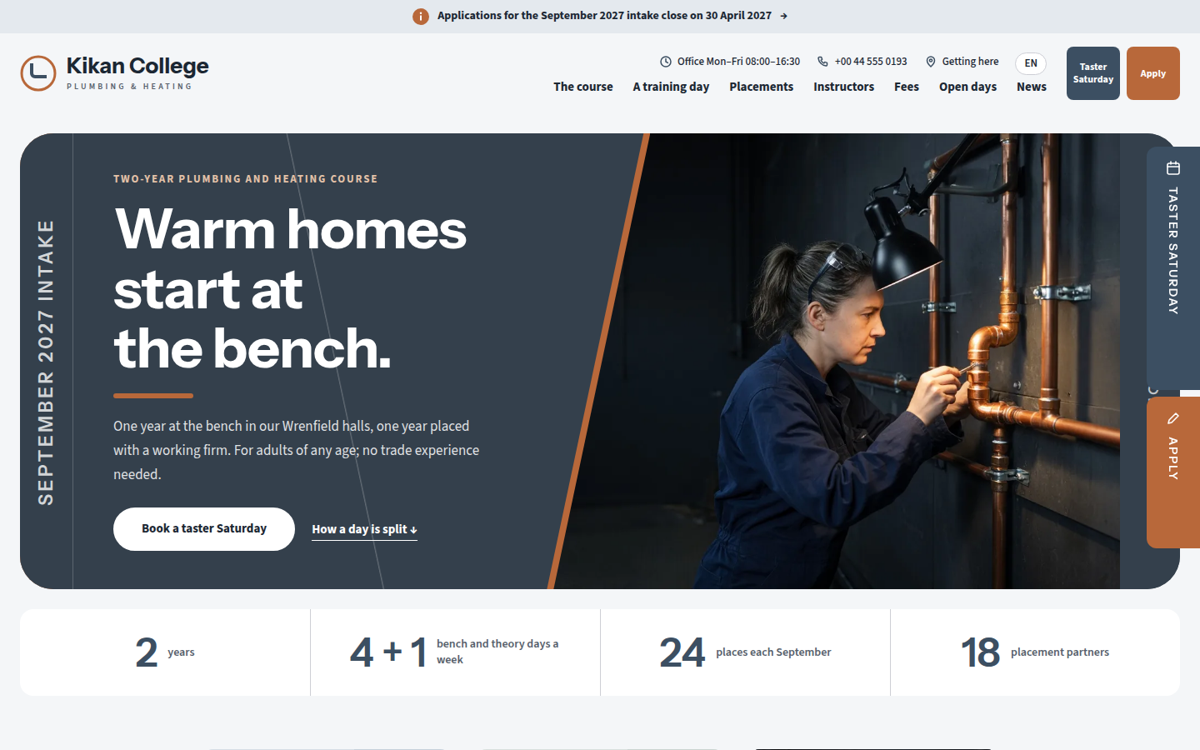
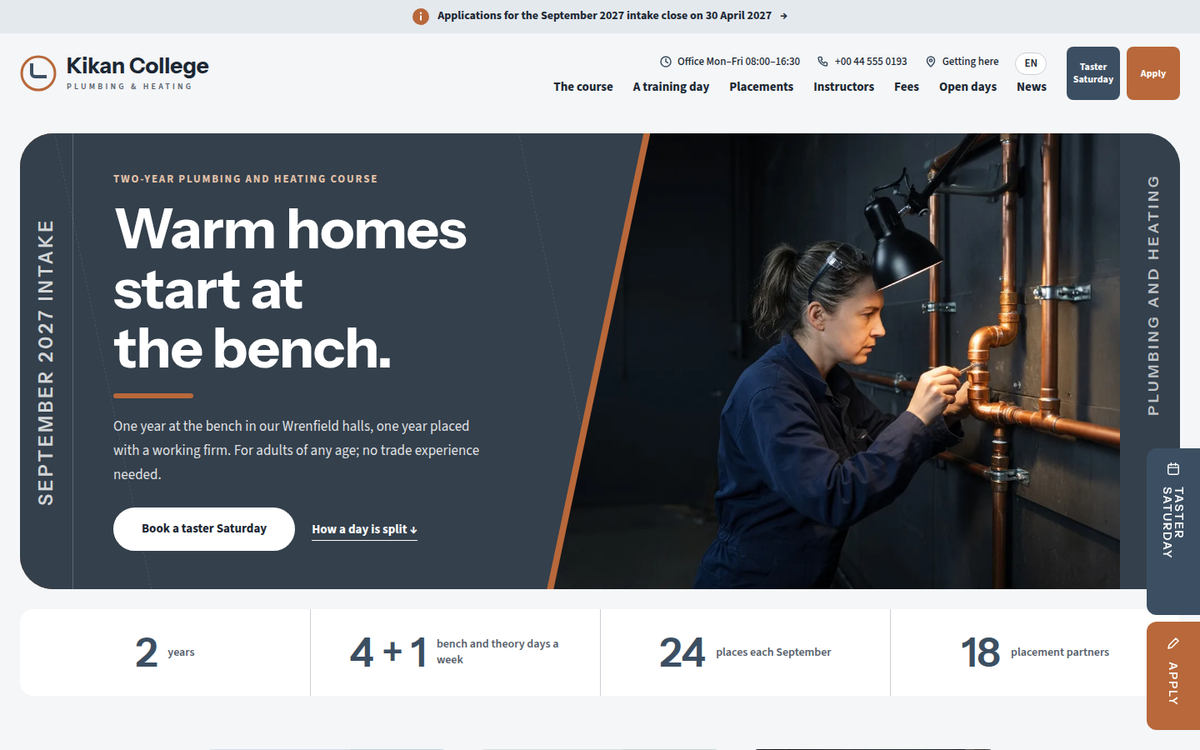
kikan-college: stage 2 home fixes (readable hero strip, day strip labels, regenerated Rosa/Aiyana photos, plates, screenshot)

Changed region(s): [[0.9558, 0.184, 1.0, 0.9813]]

diff --git a/themes/kikan-college/style.css b/themes/kikan-college/style.css
@@ -116,11 +116,12 @@ img { max-width: 100%; height: auto; }
 .kc-tabs { display: none; }
 @media (min-width: 1280px) {
 	.kc-hero__strip { justify-content: flex-start; padding-left: 8px; }
-	.kc-tabs { display: flex; flex-direction: column; gap: 8px; position: fixed; right: 0; top: 176px; z-index: 40; }
-	.kc-tab { display: flex; flex-direction: column; align-items: center; justify-content: flex-start; gap: 12px; width: 64px; padding: 16px 0; border-radius: 12px 0 0 12px; color: #fff; text-decoration: none; font: 600 14px/1 var(--kc-display); }
+	.kc-window .kc-hero__strip { align-items: flex-start; padding-top: 48px; }
+	.kc-tabs { display: flex; flex-direction: column; gap: 8px; position: fixed; right: 0; top: auto; bottom: 24px; z-index: 40; }
+	.kc-tab { display: flex; flex-direction: column; align-items: center; justify-content: flex-start; gap: 12px; width: 64px; padding: 16px 0; box-sizing: border-box; border-radius: 12px 0 0 12px; color: #fff; text-decoration: none; font: 600 14px/1 var(--kc-display); }
 	.kc-tab span { writing-mode: vertical-rl; letter-spacing: .12em; }
-	.kc-tab--taster { background: var(--kc-katsu); height: 260px; }
-	.kc-tab--apply { background: var(--kc-copper); height: 150px; }
+	.kc-tab--taster { background: var(--kc-katsu); height: 200px; }
+	.kc-tab--apply { background: var(--kc-copper); height: 130px; }
 	.kc-tab:hover { filter: brightness(1.08); color: #fff; }
 }
 
@@ -128,7 +129,7 @@ img { max-width: 100%; height: auto; }
 .kc-hero { padding: 24px 24px 0; background: var(--kc-ground); }
 .kc-window { display: grid; grid-template-columns: 46% 1fr 72px; height: clamp(440px, calc(100vh - 353px), 600px); border-radius: 40px; overflow: clip; background: var(--kc-panel); position: relative; }
 .kc-hero__panel-wrap { position: relative; z-index: 2; margin-right: -116px; background: var(--kc-copper); clip-path: polygon(0 0, 100% 0, calc(100% - 116px) 100%, 0 100%); }
-.kc-hero__panel { height: 100%; display: grid; grid-template-columns: 64px 1fr; background-color: var(--kc-panel); clip-path: polygon(0 0, calc(100% - 8px) 0, calc(100% - 124px) 100%, 0 100%); background-image: linear-gradient(78deg, transparent 49.9%, rgba(255, 255, 255, .12) 50%, transparent 50.2%), linear-gradient(78deg, transparent 49.9%, rgba(255, 255, 255, .12) 50%, transparent 50.2%); background-size: 100% 100%; background-position: 30% 0, 62% 0; background-repeat: no-repeat; }
+.kc-hero__panel { height: 100%; display: grid; grid-template-columns: 64px 1fr; background-color: var(--kc-panel); clip-path: polygon(0 0, calc(100% - 8px) 0, calc(100% - 124px) 100%, 0 100%); background-image: linear-gradient(78deg, transparent 49.9%, rgba(255, 255, 255, .12) 50%, transparent 50.2%), linear-gradient(78deg, transparent 49.9%, rgba(255, 255, 255, .12) 50%, transparent 50.2%); background-size: 20% 100%, 20% 100%; background-position: 4% 0, 96% 0; background-repeat: no-repeat; }
 .kc-rail { display: flex; align-items: center; justify-content: center; border-right: 1px solid rgba(255, 255, 255, .2); }
 .kc-rail__l { margin: 0; writing-mode: vertical-rl; transform: rotate(180deg); font: 600 22px/1 var(--kc-display); letter-spacing: .16em; color: rgba(255, 255, 255, .8); white-space: nowrap; }
 .kc-hero__text { align-self: center; padding: 0 140px 0 48px; }
@@ -194,7 +195,10 @@ img { max-width: 100%; height: auto; }
 .kc-tile__img { position: absolute; inset: 0; margin: 0; }
 .kc-tile__img img { width: 100%; height: 100%; object-fit: cover; display: block; }
 .kc-plate { position: relative; z-index: 1; width: 100%; background: #fff; border-radius: 8px; padding: 14px 16px; text-align: center; transition: transform .3s ease; }
-.kc-tile--photo .kc-plate { width: 62%; text-align: left; }
+.kc-tile--photo { padding: 12px; }
+.kc-tile--photo .kc-plate { width: 54%; text-align: left; padding: 10px 12px; }
+.kc-tile--photo .kc-plate__t { font-size: 1.125rem; }
+.kc-tile--photo .kc-chip { margin-bottom: 6px; }
 .kc-tile:hover .kc-plate, .kc-stile:hover .kc-plate { transform: translateY(-3px); transition-delay: 0s; }
 .kc-chip { display: inline-block; margin: 0 0 8px; padding: 3px 10px; border-radius: 2px; background: var(--kc-katsu); color: #fff; font: 600 13px/1.4 var(--kc-body); }
 .kc-plate__t { margin: 0; font: 700 1.375rem/1.3 var(--kc-display); color: var(--kc-ink); }
@@ -238,6 +242,11 @@ img { max-width: 100%; height: auto; }
 .kc-seg__t { margin: 0; font: 600 13px/1.3 var(--kc-body); }
 .kc-seg--1 { flex: 15 1 0; } .kc-seg--2 { flex: 135 1 0; } .kc-seg--3 { flex: 20 1 0; } .kc-seg--4 { flex: 115 1 0; } .kc-seg--5 { flex: 45 1 0; } .kc-seg--6 { flex: 105 1 0; } .kc-seg--7 { flex: 30 1 0; }
 .kc-seg--1 .kc-seg__t, .kc-seg--3 .kc-seg__t { font-size: 11px; }
+.kc-legend { margin: 12px 0 0; font: 400 13px/1.5 var(--kc-body); color: var(--kc-muted); }
+.kc-seg--1 .kc-seg__t, .kc-seg--3 .kc-seg__t, .kc-seg--5 .kc-seg__t, .kc-seg--7 .kc-seg__t { display: none; }
+.kc-tick::after { content: ""; position: absolute; left: 50%; width: 1px; height: 6px; background: var(--kc-ink); }
+.kc-tick:nth-child(odd)::after { top: 18px; } .kc-tick:nth-child(even)::after { top: -8px; }
+.kc-tick--0::after { left: 0; } .kc-tick--7::after { left: 100%; }
 .kc-fri { margin-top: 14px; }
 .kc-fri__l { margin: 0 0 6px; font: 700 14px/1.4 var(--kc-body); color: var(--kc-katsu); }
 .kc-daystrip--fri { height: 40px; border-radius: 12px; }
@@ -250,6 +259,7 @@ img { max-width: 100%; height: auto; }
 @media (max-width: 899px) { .kc-cols { grid-template-columns: 1fr; gap: 40px; } }
 @media (max-width: 781px) {
 	.kc-ticks { display: none; }
+	.kc-seg--1 .kc-seg__t, .kc-seg--3 .kc-seg__t, .kc-seg--5 .kc-seg__t, .kc-seg--7 .kc-seg__t { display: block; }
 	.kc-daystrip, .kc-daystrip--fri { flex-direction: column; height: auto; gap: 0; background: none; border-radius: 0; overflow: visible; }
 	.kc-seg, .kc-daystrip--fri .kc-seg { flex: none !important; flex-direction: row; justify-content: flex-start; align-items: baseline; gap: 14px; text-align: left; padding: 10px 0 14px; background: none; color: var(--kc-ink); border-top: 1px solid var(--kc-line); position: relative; }
 	.kc-seg .kc-vh { position: static; width: auto; height: auto; margin: 0; clip-path: none; overflow: visible; white-space: normal; }
@@ -297,7 +307,7 @@ img { max-width: 100%; height: auto; }
 .kc-staff { display: grid; grid-template-columns: 300px 1fr; gap: 48px; align-items: center; margin-bottom: 48px; }
 .kc-staff__n { margin: 0; font: 700 1.75rem/1.4 var(--kc-display); }
 .kc-staff__r { margin: 4px 0 14px; font: 700 14px/1.4 var(--kc-body); letter-spacing: .08em; text-transform: uppercase; color: var(--kc-katsu); }
-.kc-staff__p { margin: 0 0 12px; max-width: 680px; line-height: 1.8; }
+.kc-staff__p { margin: 0 0 12px; max-width: 820px; font-size: 1.0625rem; line-height: 1.8; }
 .kc-staff__t { margin: 0; font: 600 14px/1.5 var(--kc-body); color: var(--kc-muted); }
 .kc-names { display: grid; grid-template-columns: repeat(3, 1fr); border-top: 1px solid var(--kc-line); border-bottom: 1px solid var(--kc-line); }
 .kc-name { padding: 20px 24px; border-left: 1px solid var(--kc-line); }
@@ -314,7 +324,7 @@ img { max-width: 100%; height: auto; }
 .kc-plate__n { margin: 0; font: 700 1.125rem/1.4 var(--kc-display); }
 .kc-plate__r { margin: 2px 0 8px; font-size: .875rem; color: var(--kc-muted); line-height: 1.5; }
 .kc-plate__p { margin: 0; font-size: .9375rem; line-height: 1.65; }
-@media (max-width: 899px) { .kc-stiles { grid-template-columns: 1fr; } .kc-stile { min-height: 360px; } }
+@media (max-width: 899px) { .kc-stiles { grid-template-columns: 1fr; } .kc-stile { min-height: 640px; } .kc-plate--b { padding: 14px 16px; } .kc-plate--b .kc-plate__p { font-size: .875rem; line-height: 1.6; } }
 
 /* ---------- fees table ---------- */
 .kc-fees { background: #fff; border-radius: 16px; padding: 8px 24px; margin: 0; }
@@ -360,7 +370,8 @@ img { max-width: 100%; height: auto; }
 .kc-date__c { margin: 0; font-size: 12px; color: rgba(255, 255, 255, .85); }
 .kc-tas__mid .kc-small--c { margin: 0 0 28px; }
 .kc-tas__mid .kc-btns { display: flex; justify-content: center; }
-@media (max-width: 1199px) { .kc-tas { grid-template-columns: 1fr 1fr; padding-block: 72px; } .kc-tas__mid { grid-column: 1 / -1; grid-row: 1; padding: 0 24px; } .kc-tas__ph--l { grid-column: 1; grid-row: 2; width: auto; justify-self: stretch; margin: 40px 6px 0 24px; } .kc-tas__ph--r { grid-column: 2; grid-row: 2; width: auto; justify-self: stretch; margin: 40px 24px 0 6px; } .kc-tas__ph--l img, .kc-tas__ph--r img { aspect-ratio: 4 / 3; } }
+@media (max-width: 1199px) { .kc-tas::before { background-image: radial-gradient(circle at 92% 97%, transparent 69px, rgba(255, 255, 255, .9) 70px, transparent 71.5px); }
+.kc-tas { grid-template-columns: 1fr 1fr; padding-block: 72px; } .kc-tas__mid { grid-column: 1 / -1; grid-row: 1; padding: 0 24px; } .kc-tas__ph--l { grid-column: 1; grid-row: 2; width: auto; justify-self: stretch; margin: 40px 6px 0 24px; } .kc-tas__ph--r { grid-column: 2; grid-row: 2; width: auto; justify-self: stretch; margin: 40px 24px 0 6px; } .kc-tas__ph--l img, .kc-tas__ph--r img { aspect-ratio: 4 / 3; } }
 
 /* ---------- footer ---------- */
 .kc-footer { background: var(--kc-ink); color: #fff; padding: 72px 24px 32px; --sp-form-accent: #E3C2A8; --sp-form-on-accent: #1B2733; --sp-form-focus: #E3C2A8; --sp-form-error: #F2B8AE; --sp-form-success: #D3DCE5; --sp-form-surface: #FFFFFF; --sp-form-text: #1B2733; --sp-form-border: #8C96A1; }

diff --git a/themes/kikan-college/inc/i18n/en.php b/themes/kikan-college/inc/i18n/en.php
@@ -8,8 +8,8 @@ return array(
 	'alt_emeka' => 'Emeka Obi at the boiler rig with one hand on a valve, explaining to someone off camera',
 	'alt_hero' => 'A woman apprentice in navy overalls leaning in to check a freshly soldered copper elbow joint on a practice rig, lit by a task lamp in a dark workshop hall',
 	'alt_pl' => 'A graduate checking pipe insulation at an outdoor heat pump unit beside a house wall at dusk',
-	'alt_rosa' => 'Rosa Lindqvist standing at the end of Bench Hall A looking along the benches',
-	'alt_st1' => 'A woman servicing a wall boiler in a small plant room by torch light',
+	'alt_rosa' => 'Portrait of Rosa Lindqvist beside a workbench in Bench Hall A',
+	'alt_st1' => 'Aiyana Brooks servicing a wall boiler in a small plant room by torch light',
 	'alt_st2' => 'A man fitting a radiator valve in an apartment block stairwell in low light',
 	'alt_st3' => 'A woman in safety glasses soldering a copper joint at a bench with a small blue torch tip',
 	'alt_tas1' => 'A starter tool kit laid out on a dark bench under a lamp: pipe cutter, bender, grips, torch and case',
@@ -37,6 +37,7 @@ return array(
 	'day_c3_p' => 'The last half hour belongs to the logbook. You write down what you made and what went wrong, your instructor signs it, and the bay is swept before anyone goes home. The signed logbook is what the bench assessments are marked from, so it matters more than it looks.',
 	'day_h' => 'How a training day is split',
 	'day_n' => '02',
+	'day_legend' => 'Light blocks: Tool check · Break · Lunch · Logbook',
 	'day_sub' => 'Four bench days and one theory day, every week of Year 1.',
 	'emeka_n' => 'Emeka Obi',
 	'emeka_p' => 'Emeka runs Bench Hall B and the boiler rig. He spent two decades servicing boilers before teaching, and he builds the weekly faults that the rig block is about. Ask him why a radiator is cold and expect a question back before you get an answer.',

diff --git a/themes/kikan-college/patterns/front-day.php b/themes/kikan-college/patterns/front-day.php
@@ -76,8 +76,8 @@
 <!-- /wp:group -->
 <!-- wp:group {"className":"kc-seg kc-seg--tint kc-seg--5","layout":{"type":"default"}} -->
 <div class="wp-block-group kc-seg kc-seg--tint kc-seg--5">
-<!-- wp:paragraph {"className":"kc-seg__l kc-vh"} -->
-<p class="kc-seg__l kc-vh"><?php echo esc_html( kikan_college_t( 'seg5_l' ) ); ?></p>
+<!-- wp:paragraph {"className":"kc-seg__l"} -->
+<p class="kc-seg__l"><?php echo esc_html( kikan_college_t( 'seg5_l' ) ); ?></p>
 <!-- /wp:paragraph -->
 <!-- wp:paragraph {"className":"kc-seg__t"} -->
 <p class="kc-seg__t"><?php echo esc_html( kikan_college_t( 'seg5_t' ) ); ?></p>
@@ -96,8 +96,8 @@
 <!-- /wp:group -->
 <!-- wp:group {"className":"kc-seg kc-seg--copper kc-seg--7","layout":{"type":"default"}} -->
 <div class="wp-block-group kc-seg kc-seg--copper kc-seg--7">
-<!-- wp:paragraph {"className":"kc-seg__l kc-vh"} -->
-<p class="kc-seg__l kc-vh"><?php echo esc_html( kikan_college_t( 'seg7_l' ) ); ?></p>
+<!-- wp:paragraph {"className":"kc-seg__l"} -->
+<p class="kc-seg__l"><?php echo esc_html( kikan_college_t( 'seg7_l' ) ); ?></p>
 <!-- /wp:paragraph -->
 <!-- wp:paragraph {"className":"kc-seg__t"} -->
 <p class="kc-seg__t"><?php echo esc_html( kikan_college_t( 'seg7_t' ) ); ?></p>
@@ -107,6 +107,9 @@
 
 </div>
 <!-- /wp:group -->
+<!-- wp:paragraph {"className":"kc-legend"} -->
+<p class="kc-legend"><?php echo esc_html( kikan_college_t( 'day_legend' ) ); ?></p>
+<!-- /wp:paragraph -->
 <!-- wp:group {"className":"kc-fri","layout":{"type":"default"}} -->
 <div class="wp-block-group kc-fri">
 <!-- wp:paragraph {"className":"kc-fri__l"} -->
